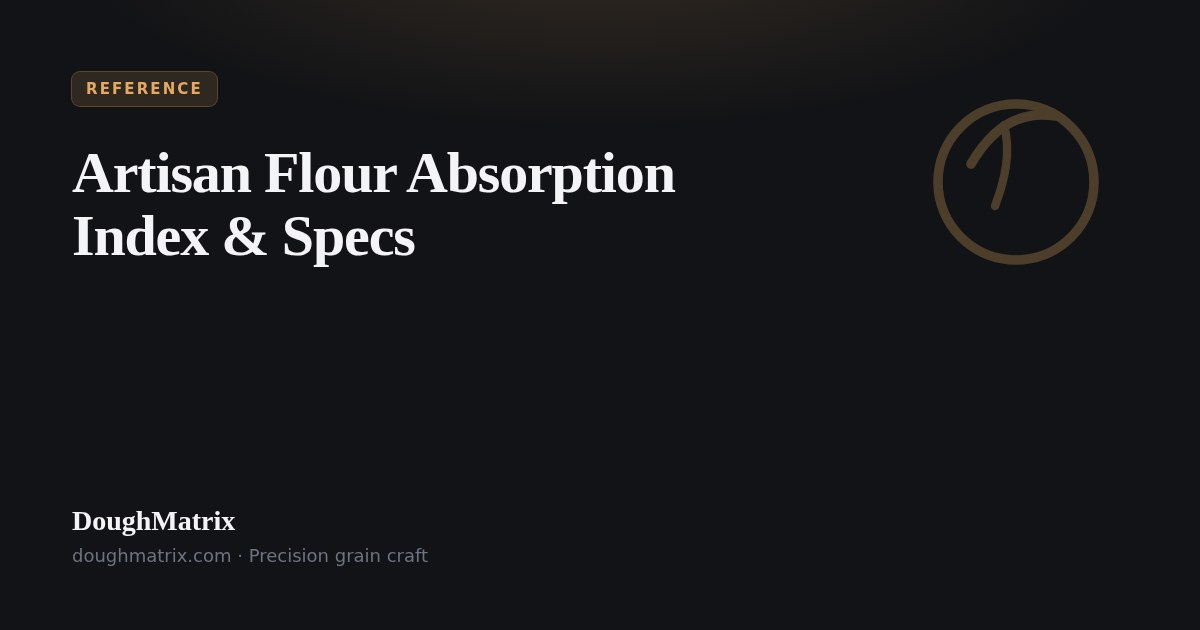
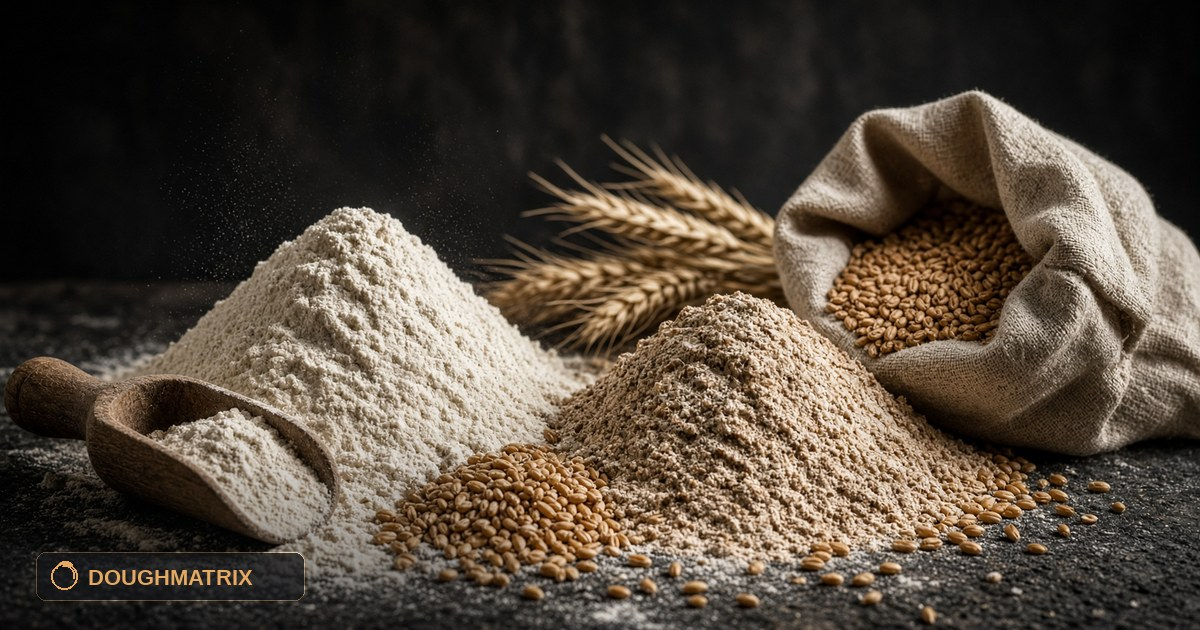
Use photography OG cards with a DoughMatrix badge.
Static 1200×630 JPEGs now back homepage, engine, flour index, and all five guides. Flour spec pages still render from /api/og.

diff --git a/src/lib/og/meta.ts b/src/lib/og/meta.ts
@@ -1,5 +1,16 @@
 export const SITE_ORIGIN = "https://www.doughmatrix.com";
 
+export const OG_IMAGES = {
+  home: "/images/og/home-hub.jpg",
+  engine: "/images/og/sourdough-engine.jpg",
+  flours: "/images/og/flour-index.jpg",
+  crumb: "/images/og/crumb-troubleshooting.jpg",
+  starter: "/images/og/starter-kinetics.jpg",
+  hydration: "/images/og/hydration-ceiling.jpg",
+  autolyse: "/images/og/autolyse-fermentolyse.jpg",
+  temp: "/images/og/temp-fermentation.jpg",
+} as const;
+
 export function absUrl(path: string) {
   if (path.startsWith("http://") || path.startsWith("https://")) return path;
   const origin = SITE_ORIGIN.replace(/\/$/, "");
@@ -24,16 +35,20 @@ export function socialHead(opts: {
   title: string;
   description: string;
   path: string;
+  image?: string;
   cardTitle?: string;
-  category: string;
+  category?: string;
   detail?: string;
 }) {
   const url = absUrl(opts.path);
-  const image = ogCardUrl({
-    title: opts.cardTitle ?? opts.title,
-    category: opts.category,
-    detail: opts.detail,
-  });
+  const image = opts.image
+    ? absUrl(opts.image)
+    : ogCardUrl({
+        title: opts.cardTitle ?? opts.title,
+        category: opts.category ?? "BAKING SUITE",
+        detail: opts.detail,
+      });
+  const jpeg = image.endsWith(".jpg") || image.endsWith(".jpeg") || image.endsWith(".png");
   return {
     meta: [
       { title: opts.title },
@@ -46,7 +61,7 @@ export function socialHead(opts: {
       { property: "og:image", content: image },
       { property: "og:image:width", content: "1200" },
       { property: "og:image:height", content: "630" },
-      { property: "og:image:type", content: "image/png" },
+      { property: "og:image:type", content: jpeg ? "image/jpeg" : "image/png" },
       { property: "og:image:alt", content: opts.cardTitle ?? opts.title },
       { name: "twitter:card", content: "summary_large_image" },
       { name: "twitter:title", content: opts.title },

diff --git a/src/routes/engines/sourdough.tsx b/src/routes/engines/sourdough.tsx
@@ -3,7 +3,7 @@ import { createFileRoute } from "@tanstack/react-router";
 import { Engine } from "@/components/engine/engine";
 import { track } from "@/lib/analytics";
 import { parseEngineSearch } from "@/lib/engine-search";
-import { socialHead } from "@/lib/og/meta";
+import { OG_IMAGES, socialHead } from "@/lib/og/meta";
 import { useBaker } from "@/lib/sourdough/store";
 
 export const Route = createFileRoute("/engines/sourdough")({
@@ -15,6 +15,7 @@ export const Route = createFileRoute("/engines/sourdough")({
       description:
         "Calculate true hydration with hidden starter water, find your exact water mix temperature, and dial in your bulk fermentation window.",
       path: "/engines/sourdough",
+      image: OG_IMAGES.engine,
       cardTitle: "Sourdough Hydration & Fermentation Calculator",
       category: "BAKING TOOL",
       detail: "True Hydration • Starter Dilution • DDT",

diff --git a/src/routes/guides/index.tsx b/src/routes/guides/index.tsx
@@ -2,7 +2,7 @@ import { createFileRoute, Link } from "@tanstack/react-router";
 import { ArrowRight } from "lucide-react";
 import { GuideShell } from "@/components/guide-shell";
 import { PUBLISHED_GUIDES } from "@/lib/guides";
-import { socialHead } from "@/lib/og/meta";
+import { OG_IMAGES, socialHead } from "@/lib/og/meta";
 
 export const Route = createFileRoute("/guides/")({
   component: GuidesHub,
@@ -12,6 +12,7 @@ export const Route = createFileRoute("/guides/")({
       description:
         "DoughMatrix guides: flour hydration ceilings, bulk by temperature, levain peak timing, autolyse vs. fermentolyse, and sourdough crumb forensics.",
       path: "/guides",
+      image: OG_IMAGES.home,
       cardTitle: "Field Guides",
       category: "FIELD GUIDE",
       detail: "Hydration, fermentation, levain, mix, and crumb",

diff --git a/src/routes/flours.tsx b/src/routes/flours.tsx
@@ -12,7 +12,7 @@ import {
   type FlourCategory,
 } from "@/lib/flour-catalog";
 import { cn } from "@/lib/utils";
-import { socialHead } from "@/lib/og/meta";
+import { OG_IMAGES, socialHead } from "@/lib/og/meta";
 
 export const Route = createFileRoute("/flours")({
   component: FlourIndex,
@@ -22,6 +22,7 @@ export const Route = createFileRoute("/flours")({
       description:
         "Protein, ash, malt, and true-hydration ceilings for 16 baseline artisan flours — King Arthur, Central Milling, Bob’s Red Mill, Caputo, General Mills, and Giusto’s. Load any bag into the sourdough engine.",
       path: "/flours",
+      image: OG_IMAGES.flours,
       cardTitle: "Artisan Flour Absorption Index",
       category: "FLOUR INDEX",
       detail: "16+ Verified Commercial & Artisan Flours",

diff --git a/src/routes/index.tsx b/src/routes/index.tsx
@@ -1,7 +1,7 @@
 import { createFileRoute, redirect } from "@tanstack/react-router";
 import { HubHome } from "@/components/hub-home";
 import { hasEngineQuery, parseEngineSearch } from "@/lib/engine-search";
-import { socialHead } from "@/lib/og/meta";
+import { OG_IMAGES, socialHead } from "@/lib/og/meta";
 
 export const Route = createFileRoute("/")({
   validateSearch: parseEngineSearch,
@@ -21,6 +21,7 @@ export const Route = createFileRoute("/")({
       description:
         "Dial in water absorption, hit your proofing windows, and stop ending up with flat, sticky dough. Real flour data and fermentation math for home and micro-bakers.",
       path: "/",
+      image: OG_IMAGES.home,
       cardTitle: "Baking science, minus the guesswork",
       category: "BAKING SUITE",
     }),

diff --git a/src/routes/guides/starter-feeding-ratios-kinetics.tsx b/src/routes/guides/starter-feeding-ratios-kinetics.tsx
@@ -3,7 +3,7 @@ import { ArrowRight } from "lucide-react";
 import { BULK_T_REF_C, BULK_TAU_C, formatGrams, formatHours } from "@/lib/sourdough/math";
 import { cn } from "@/lib/utils";
 import { GuideShell } from "@/components/guide-shell";
-import { socialHead } from "@/lib/og/meta";
+import { OG_IMAGES, socialHead } from "@/lib/og/meta";
 
 const TITLE =
   "Starter Feeding Kinetics & Levain Scaling: How to Time Your Peak to the Exact Hour";
@@ -41,6 +41,7 @@ export const Route = createFileRoute("/guides/starter-feeding-ratios-kinetics")(
       title: `${TITLE} — DoughMatrix`,
       description: DESCRIPTION,
       path: "/guides/starter-feeding-ratios-kinetics",
+      image: OG_IMAGES.starter,
       cardTitle: TITLE,
       category: "FIELD GUIDE",
     }),

diff --git a/src/routes/guides/flour-hydration-ceiling.tsx b/src/routes/guides/flour-hydration-ceiling.tsx
@@ -4,7 +4,7 @@ import { FLOURS } from "@/lib/sourdough/flours";
 import type { FlourFamily } from "@/lib/sourdough/types";
 import { cn } from "@/lib/utils";
 import { GuideShell } from "@/components/guide-shell";
-import { socialHead } from "@/lib/og/meta";
+import { OG_IMAGES, socialHead } from "@/lib/og/meta";
 
 const TITLE =
   "The Flour Hydration Ceiling: Why Your High-Hydration Sourdough Is a Sticky Puddle (And How to Fix It)";
@@ -19,6 +19,7 @@ export const Route = createFileRoute("/guides/flour-hydration-ceiling")({
       title: `${TITLE} — DoughMatrix`,
       description: DESCRIPTION,
       path: "/guides/flour-hydration-ceiling",
+      image: OG_IMAGES.hydration,
       cardTitle: TITLE,
       category: "FIELD GUIDE",
     }),

diff --git a/src/routes/guides/sourdough-crumb-troubleshooting.tsx b/src/routes/guides/sourdough-crumb-troubleshooting.tsx
@@ -1,7 +1,7 @@
 import { createFileRoute, Link } from "@tanstack/react-router";
 import { ArrowRight } from "lucide-react";
 import { GuideShell } from "@/components/guide-shell";
-import { socialHead } from "@/lib/og/meta";
+import { OG_IMAGES, socialHead } from "@/lib/og/meta";
 
 const TITLE =
   "Sourdough Crumb Forensics: How to Diagnose and Fix Under-Fermented, Over-Fermented, and Fool's Crumb Loaves";
@@ -69,6 +69,7 @@ export const Route = createFileRoute("/guides/sourdough-crumb-troubleshooting")(
       title: `${TITLE} — DoughMatrix`,
       description: DESCRIPTION,
       path: "/guides/sourdough-crumb-troubleshooting",
+      image: OG_IMAGES.crumb,
       cardTitle: TITLE,
       category: "FIELD GUIDE",
     }),

diff --git a/src/routes/guides/temperature-fermentation-matrix.tsx b/src/routes/guides/temperature-fermentation-matrix.tsx
@@ -10,7 +10,7 @@ import {
 } from "@/lib/sourdough/math";
 import { cn } from "@/lib/utils";
 import { GuideShell } from "@/components/guide-shell";
-import { socialHead } from "@/lib/og/meta";
+import { OG_IMAGES, socialHead } from "@/lib/og/meta";
 
 const TITLE =
   "The Ambient Temp vs. Starter % Matrix: How to Predict Bulk Fermentation to the Hour";
@@ -28,6 +28,7 @@ export const Route = createFileRoute("/guides/temperature-fermentation-matrix")(
       title: `${TITLE} — DoughMatrix`,
       description: DESCRIPTION,
       path: "/guides/temperature-fermentation-matrix",
+      image: OG_IMAGES.temp,
       cardTitle: TITLE,
       category: "FIELD GUIDE",
     }),

diff --git a/src/routes/guides/autolyse-vs-fermentolyse.tsx b/src/routes/guides/autolyse-vs-fermentolyse.tsx
@@ -1,7 +1,7 @@
 import { createFileRoute, Link } from "@tanstack/react-router";
 import { ArrowRight } from "lucide-react";
 import { GuideShell } from "@/components/guide-shell";
-import { socialHead } from "@/lib/og/meta";
+import { OG_IMAGES, socialHead } from "@/lib/og/meta";
 
 const H1 =
   "Autolyse vs. Fermentolyse: Enzymatic Kinetics, Extensibility, and When to Skip It";
@@ -57,6 +57,7 @@ export const Route = createFileRoute("/guides/autolyse-vs-fermentolyse")({
       title: TITLE,
       description: DESCRIPTION,
       path: "/guides/autolyse-vs-fermentolyse",
+      image: OG_IMAGES.autolyse,
       cardTitle: H1,
       category: "FIELD GUIDE",
     }),
